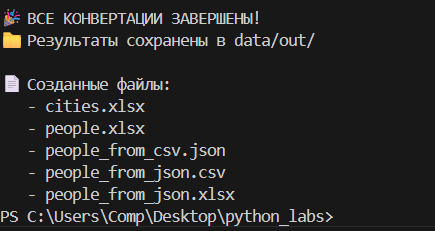
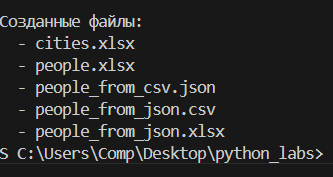
done

diff --git a/src/lab05/run_conversation.py b/src/lab05/run_conversation.py
@@ -37,16 +37,16 @@ def main():
         csv_to_xlsx('data/samples/cities.csv', 'data/out/cities.xlsx')
         print("   ✓ Успешно")
         
-        print("\n🎉 ВСЕ КОНВЕРТАЦИИ ЗАВЕРШЕНЫ!")
-        print("📁 Результаты сохранены в data/out/")
+        print("\n ВСЕ КОНВЕРТАЦИИ ЗАВЕРШЕНЫ!")
+        print(" Результаты сохранены в data/out/")
         
         # Показываем созданные файлы
-        print("\n📄 Созданные файлы:")
+        print("\n Созданные файлы:")
         for file in os.listdir('data/out'):
             print(f"   - {file}")
             
     except Exception as e:
-        print(f"❌ Ошибка: {e}")
+        print(f" Ошибка: {e}")
         import traceback
         traceback.print_exc()
 
